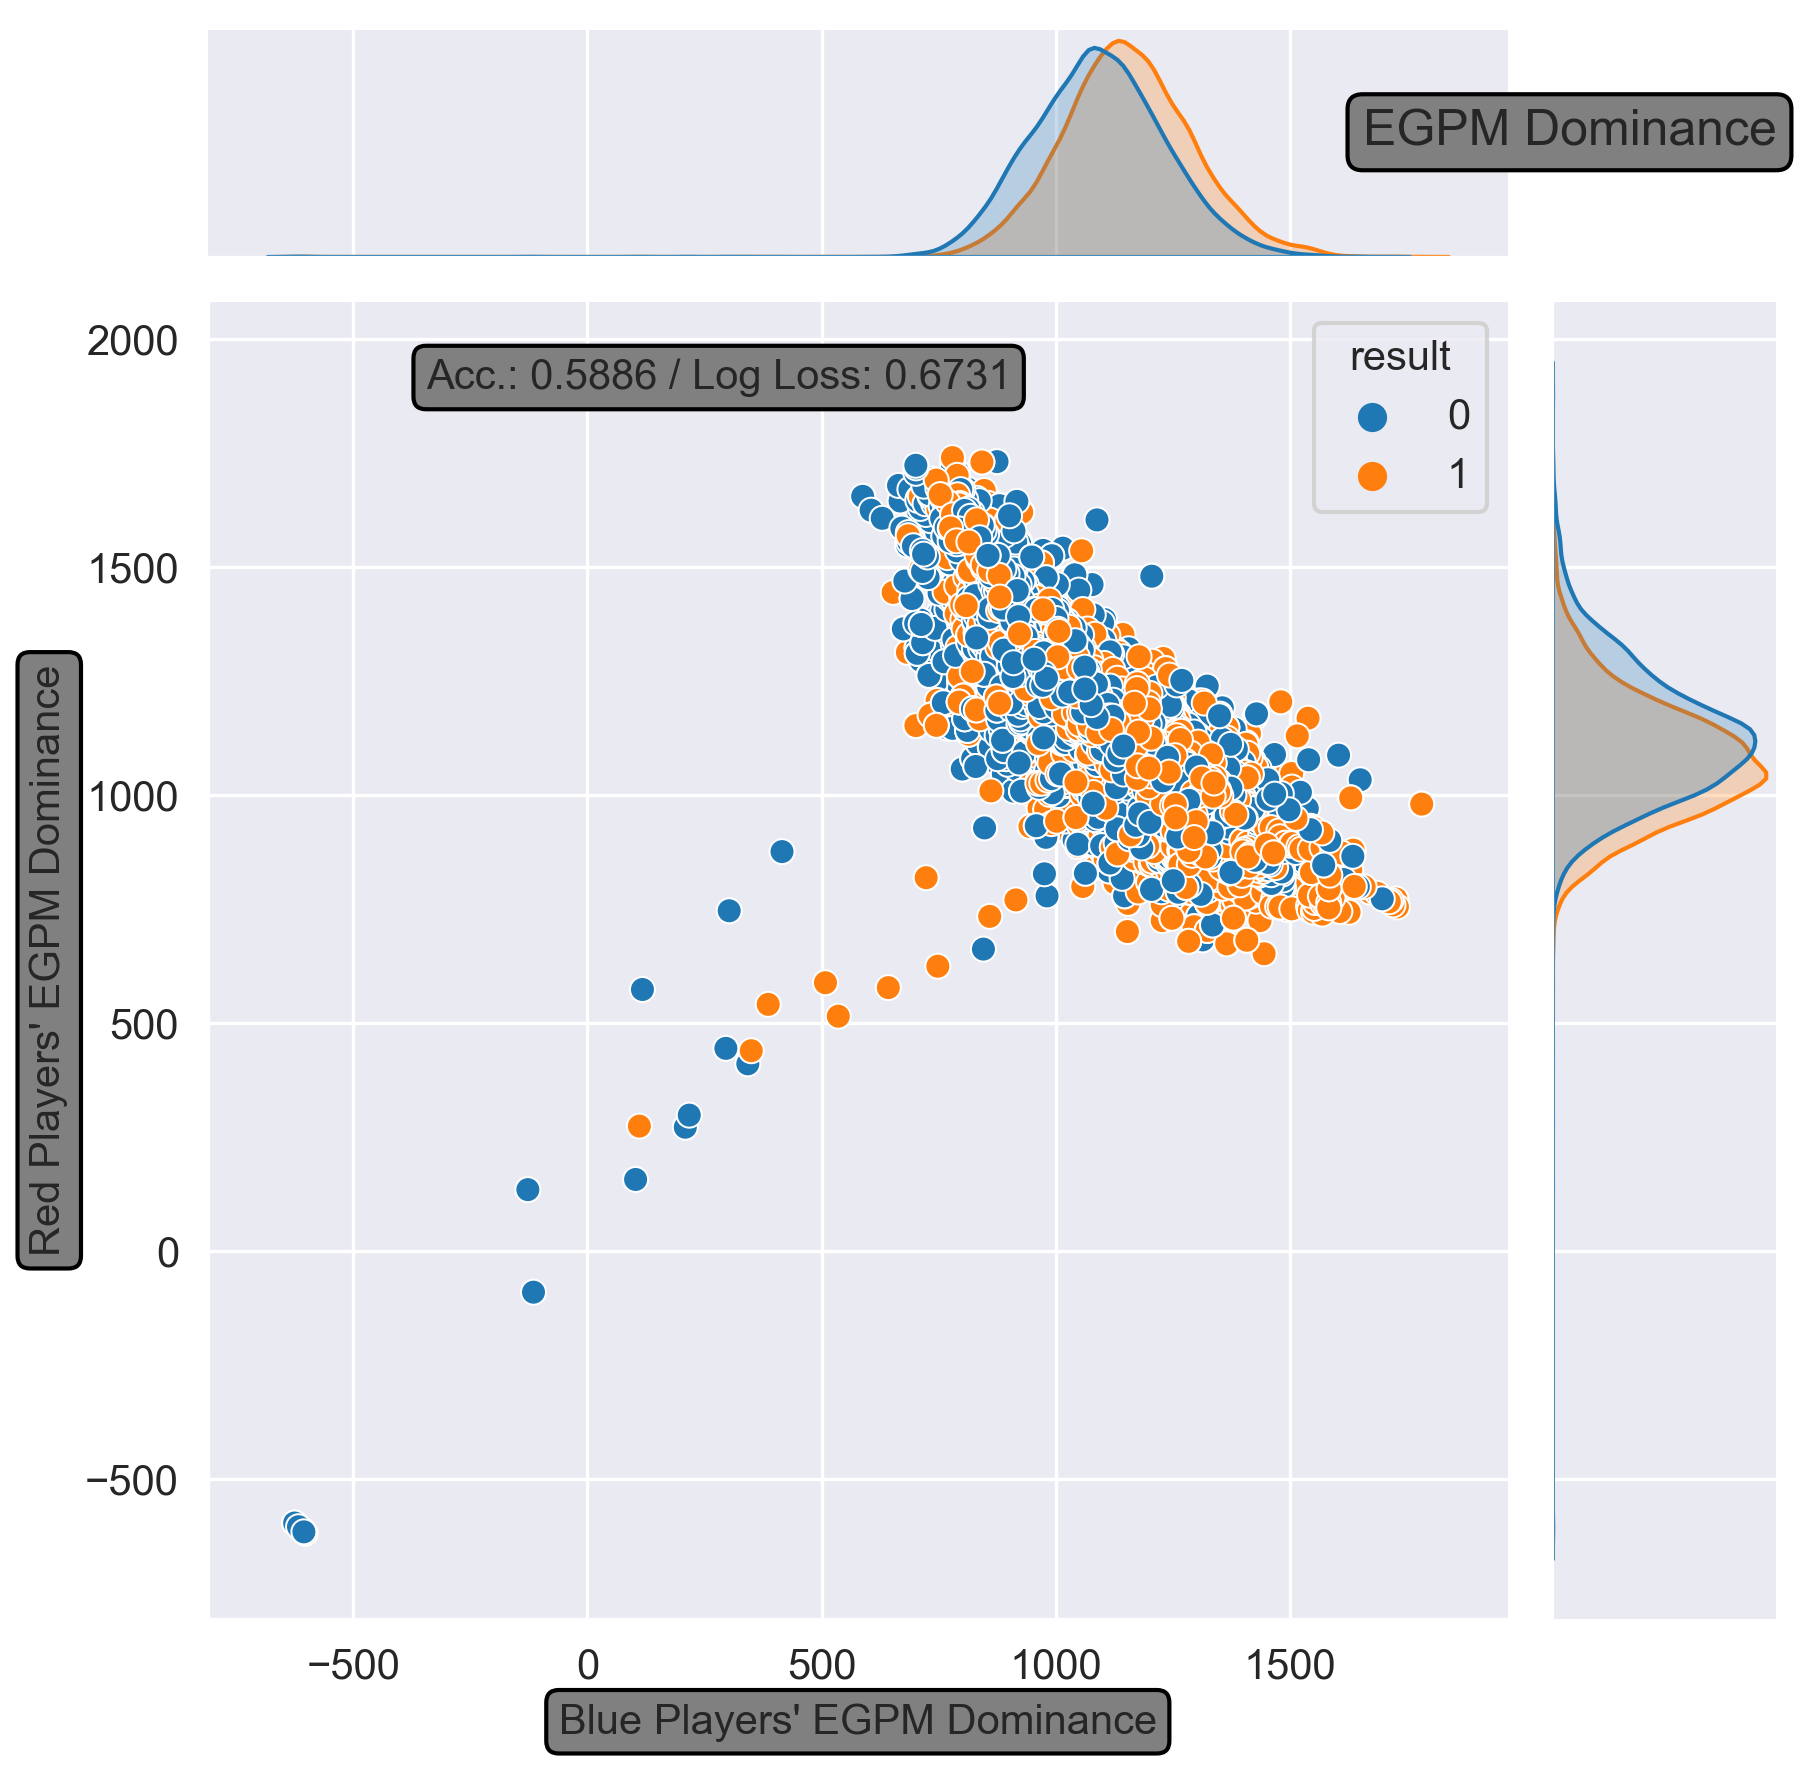
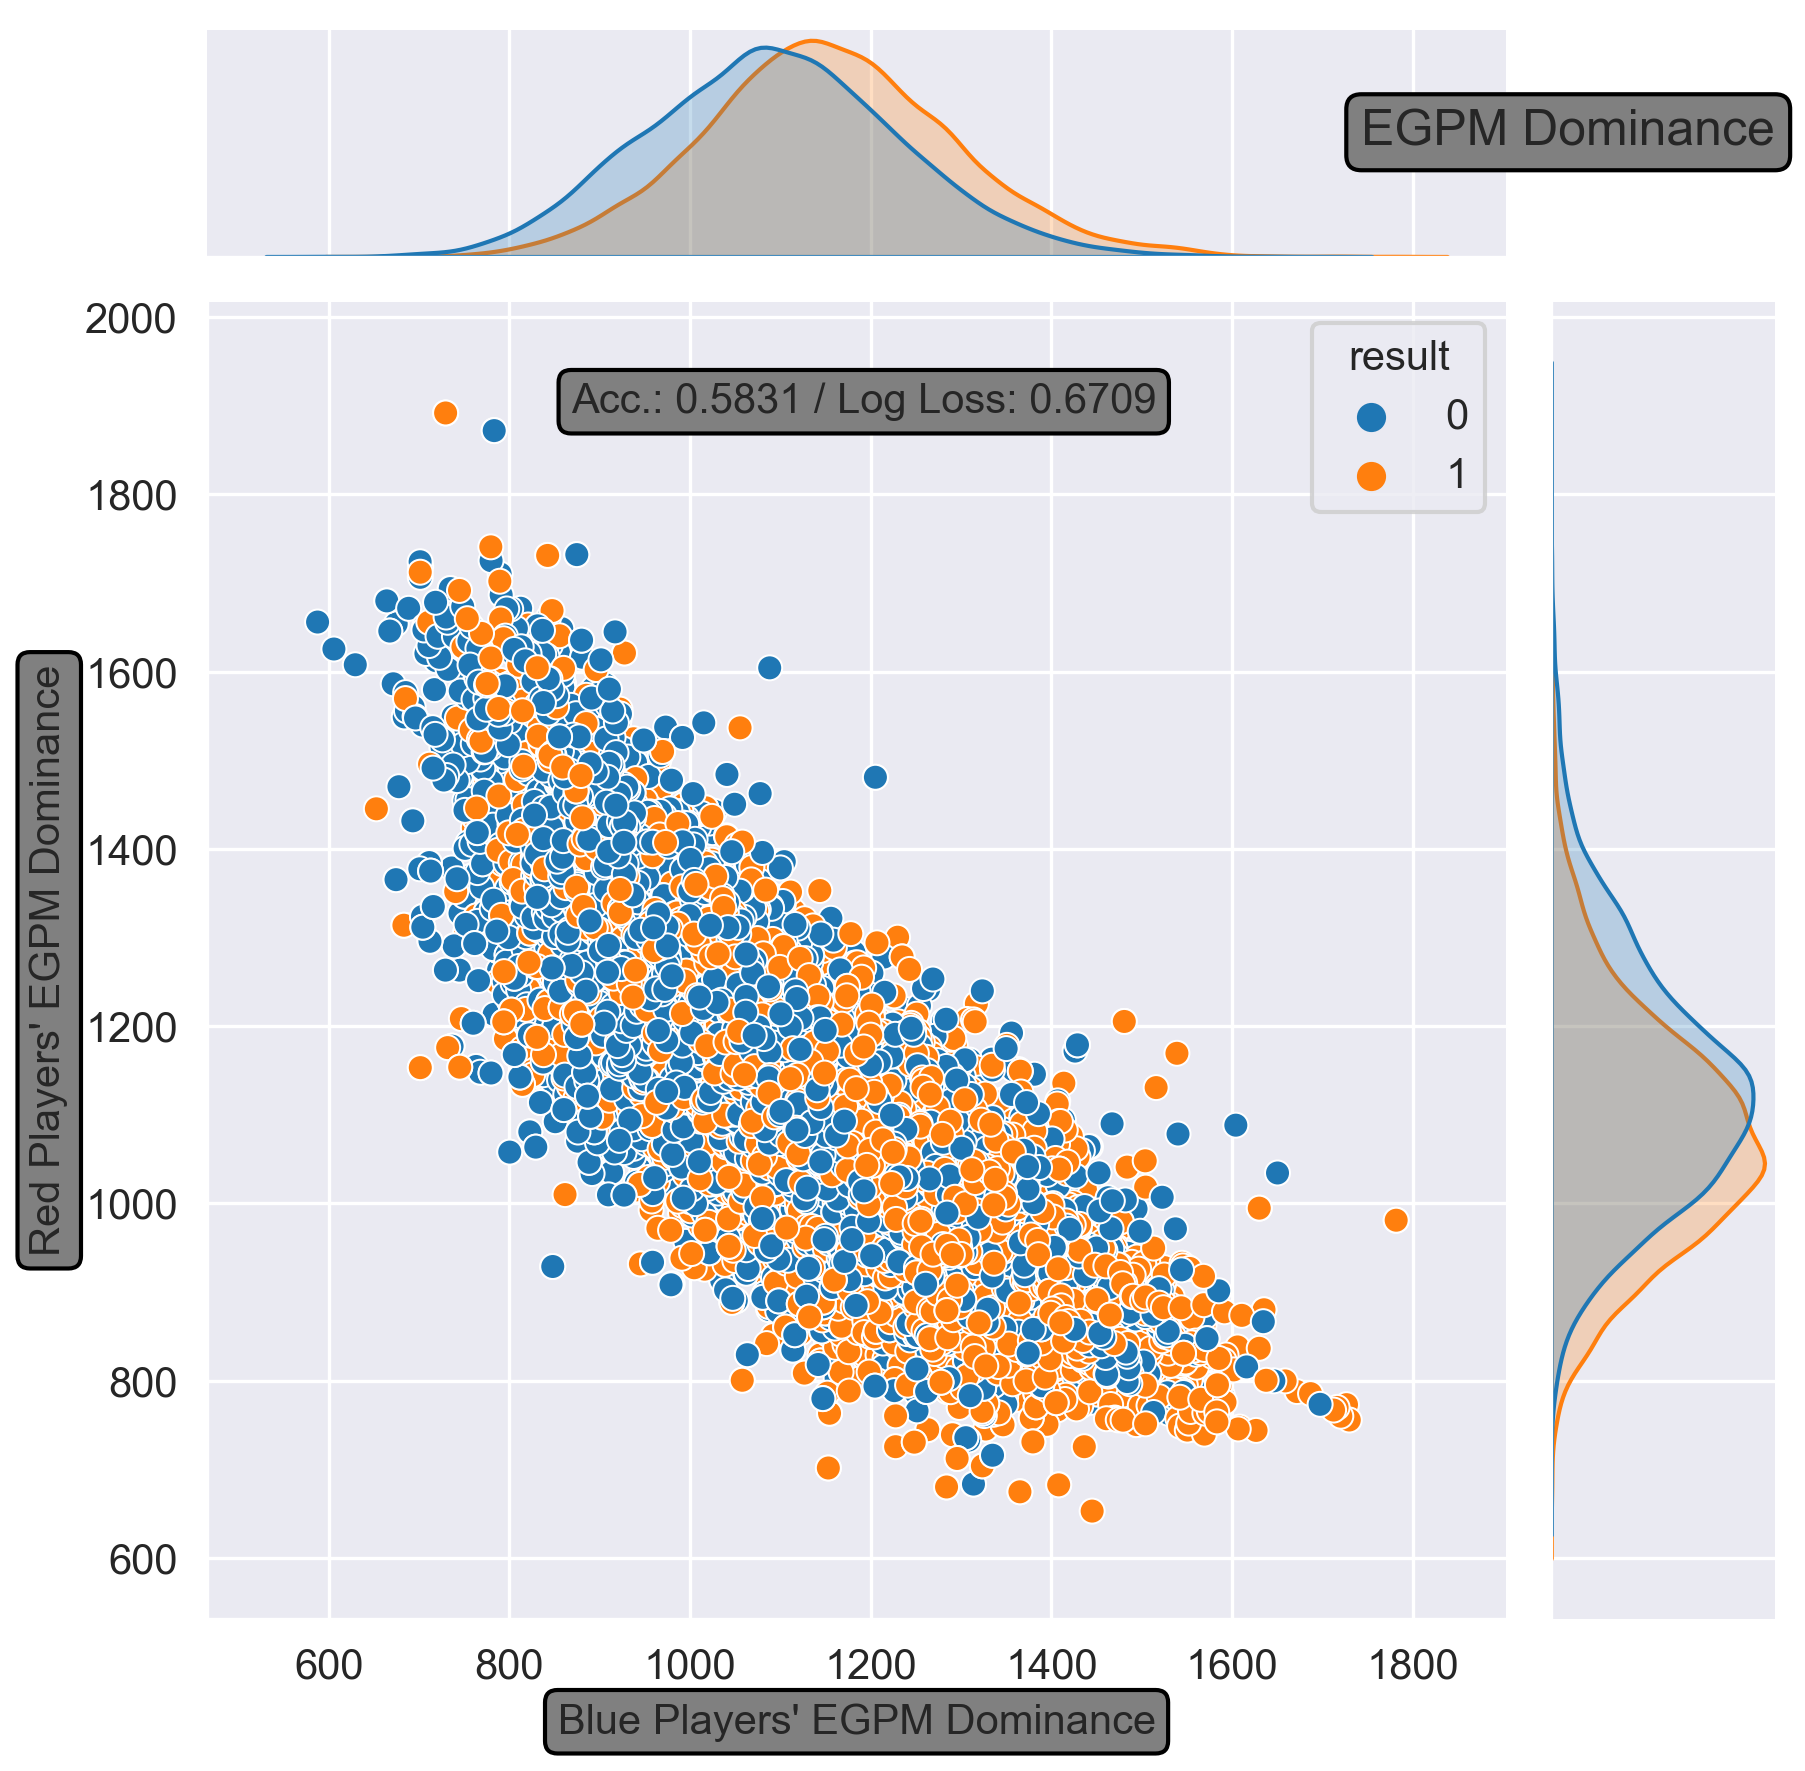
Model Tuning / Type Hinting Changes
Employed a scaling approach to the EGPM model to make the output predictions have a lower log loss value. Minor code changes to improve type hinting and readability.

diff --git a/src/lol_modeling.py b/src/lol_modeling.py
@@ -18,30 +18,29 @@ Nothing in this code or its outputs constitutes financial advice.
 This code is intended to be imported into your analytics projects.
 """
 # Housekeeping
-import csv
 import itertools
 import math
 import numpy as np
+from pandas import DataFrame
 import src.oracles_elixir as oe
 import pandas as pd
-from scipy.stats import norm
 import trueskill
-from typing import Optional
+from typing import Optional, Tuple, Dict, Any
 
 
 # Function Library
-def std(x: int) -> int:
+def std(x: int) -> np.ndarray:
     """
     Calculate the standard deviation of X using Numpy."""
     return np.std(x)
 
 
-def q10(x: pd.Series) -> pd.Series:
+def q10(x: pd.Series) -> np.ndarray:
     """Calculate the 10th percentile of a Numpy series."""
     return np.percentile(x, q=10)
 
 
-def q90(x: pd.Series) -> pd.Series:
+def q90(x: pd.Series) -> np.ndarray:
     """Calculate the 90th percentile of a Numpy series."""
     return np.percentile(x, q=90)
 
@@ -75,10 +74,10 @@ def elo_calculator(df: pd.DataFrame, entity: str,
     elo_loser_before = []
 
     # Function Definitions
-    def get_elo(team: str) -> dict:
+    def get_elo(team: str) -> float:
         return elo_results.get(team, start_elo)
 
-    def expected_result(elo_a: int, elo_b: int) -> int:
+    def expected_result(elo_a: float, elo_b: float) -> float:
         expect_a = 1.0 / (1 + 10 ** ((elo_b - elo_a) / 400))
         return expect_a
 
@@ -246,7 +245,6 @@ def player_elo(df: pd.DataFrame, start: int = 1200, k: int = 28) -> pd.DataFrame
 
     return df
 
-
 def aggregate_player_elos(player_data: pd.DataFrame, team_data: pd.DataFrame) -> pd.DataFrame:
     """
     Aggregate individual player elos to a mean elo per team per match.
@@ -280,7 +278,8 @@ def aggregate_player_elos(player_data: pd.DataFrame, team_data: pd.DataFrame) ->
     return team_data
 
 
-def trueskill_model(player_data: pd.DataFrame, team_data: pd.DataFrame) -> pd.DataFrame:
+def trueskill_model(player_data: pd.DataFrame, team_data: pd.DataFrame) -> Tuple[
+    Optional[DataFrame], Optional[DataFrame], Dict[Any, Any]]:
     r"""
     Calculate team ranking using Microsoft's TrueSkill 1 algorithm.
     Reference: https://www.microsoft.com/en-us/research/project/trueskill-ranking-system/
@@ -367,18 +366,18 @@ def trueskill_model(player_data: pd.DataFrame, team_data: pd.DataFrame) -> pd.Da
 
         return output_array
 
-    colnames = ['gameid', 'date', 'league', 'ckpm', 'blue_earned_gpm',
+    col_names = ['gameid', 'date', 'league', 'ckpm', 'blue_earned_gpm',
                 'blue_kpm', 'blue_team', 'blue_team_id', 'blue_top_name', 'blue_jng_name',
                 'blue_mid_name', 'blue_bot_name', 'blue_sup_name',
                 'blue_team_result', 'red_team', 'red_team_id', 'red_earned_gpm', 'red_kpm',
                 'red_top_name', 'red_jng_name', 'red_mid_name',
                 'red_bot_name', 'red_sup_name']
 
-    lcs_rating = pd.DataFrame(setup_match(input_data), columns=colnames)
+    lcs_rating = pd.DataFrame(setup_match(input_data), columns=col_names)
 
     analyzed_gameids = {}
 
-    def win_probability(team1: str, team2: str, trueskill_global_env):
+    def win_probability(team1: dict, team2: dict, trueskill_global_env) -> float:
         """
         Compute the TrueSkill probability of a team to win based on mu and sigma values.
         """
@@ -722,7 +721,15 @@ def egpm_model(data: pd.DataFrame, entity: str) -> pd.DataFrame:
     data['egpm_dominance_win_perc'] = (data['egpm_dominance_ema_before'] /
                                        (data['egpm_dominance_ema_before'] +
                                         data['opp_egpm_dominance_ema_before']))
+    data['egpm_dominance_win_perc'] = data['egpm_dominance_win_perc'].fillna(0.5)
     data['egpm_dominance_diff'] = data['egpm_dominance_ema_before'] - data['opp_egpm_dominance_ema_before']
+
+    # Scale Win Perc (derived from sklearn MinMaxScaler)
+    min_tune = 0.125
+    max_tune = 0.875
+    base = data['egpm_dominance_win_perc']
+    base_std = (base - base.min(axis=0)) / (base.max(axis=0) - base.min(axis=0))
+    data['scaled_egpm_win_perc'] = base_std * (max_tune - min_tune) + min_tune
 
     return data
 

diff --git a/src/match_predictor.py b/src/match_predictor.py
@@ -38,6 +38,15 @@ def predict_match(blue: Team, red: Team) -> pd.DataFrame:
 
     weights = generate_validation_metrics(graph=False)
 
+    def scale_egpm(win_perc: float) -> float:
+        min_tune = 0.125
+        max_tune = 0.875
+        team_min = 0.261964
+        team_max = 0.695982
+        base_std = (win_perc - team_min) / (team_max - team_min)
+        scaled_win_perc = base_std * (max_tune - min_tune) + min_tune
+        return scaled_win_perc
+
     match = pd.DataFrame({"blue": [blue.name],
                           "red": [red.name],
                           "player_elo": [elo_prediction(blue.player_elo, red.player_elo)],
@@ -45,7 +54,7 @@ def predict_match(blue: Team, red: Team) -> pd.DataFrame:
                                                                     blue.player_trueskill_sigma,
                                                                     red.player_trueskill_mu,
                                                                     red.player_trueskill_sigma)],
-                          "egpm_dom": [standard_prediction(blue.egpm_dominance, red.egpm_dominance)],
+                          "egpm_dom": [scale_egpm(standard_prediction(blue.egpm_dominance, red.egpm_dominance))],
                           "side_win": [standard_prediction(blue.side_win_rate, red.side_win_rate)]})
 
     if blue.team_exists and red.team_exists:
@@ -259,13 +268,9 @@ def mock_draft(blue1: str, blue2: str, blue3: str, blue4: str, blue5: str,
 
 if __name__ in ('__main__', '__builtin__', 'builtins'):
     blue_team = Team("Team BDS", "Blue", "Adam", "Cinkrof", "NUCLEARINT", "xMatty", "Limit")
-    print(blue_team.player_trueskill_mu)
-    print(blue_team.player_trueskill_sigma)
     red_team = Team("Rogue", "Red", "Odoamne", "Malrang", "Larssen", "Comp", "Trymbi")
-    print(red_team.player_trueskill_mu)
-    print(red_team.player_trueskill_sigma)
+
     print(predict_draft("Team BDS", "Adam", "Cinkrof", "NUCLEARINT", "xMatty", "LIMIT",
                         "Rogue", "Odoamne", "Malrang", "Larssen", "Comp", "Trymbi"))
-
     print(predict_draft("Rogue", "Odoamne", "Malrang", "Larssen", "Comp", "Trymbi",
                         "Team BDS", "Adam", "Cinkrof", "NUCLEARINT", "xMatty", "LIMIT"))

diff --git a/src/model_validator.py b/src/model_validator.py
@@ -218,13 +218,12 @@ def validate_egpm_dominance(teams: pd.DataFrame, directory: Path, graph: bool):
         Variable describing the log loss, as defined by sklearn.metrics, of the model.
     """
     # Data Preparation
-    teams['egpm_dominance_win_perc'] = teams['egpm_dominance_win_perc'].fillna(0.5)
-    teams['egpm_dominance_expected_result'] = np.where(teams['egpm_dominance_win_perc'] >= 0.5, 1, 0)
+    teams['egpm_dominance_expected_result'] = np.where(teams['scaled_egpm_win_perc'] >= 0.5, 1, 0)
     teams['result'] = teams.result.astype('int32')
 
     # Label Accuracy and Log Loss
     correct = len(teams[teams['egpm_dominance_expected_result'] == teams['result']]) / len(teams)
-    logloss = log_loss(teams['result'], teams['egpm_dominance_win_perc'], labels=[0, 1])
+    logloss = log_loss(teams['result'], teams['scaled_egpm_win_perc'], labels=[0, 1])
 
     # Generate Graph
     if graph:
@@ -350,10 +349,11 @@ def validate_ensemble_accuracy(teams: pd.DataFrame,
     """
     # Data Preparation
     teams['result'] = teams.result.astype('int32')
-    sum_accuracy = team_accuracy + player_accuracy + egpm_dom_accuracy + side_ema_accuracy  # + trueskill_accuracy
+    sum_accuracy = team_accuracy + player_accuracy + egpm_dom_accuracy + side_ema_accuracy + trueskill_accuracy
     teams['ensemble_win_perc'] = ((teams['team_elo_win_perc'] * (team_accuracy / sum_accuracy)) +
                                   (teams['player_elo_win_perc'] * (player_accuracy / sum_accuracy)) +
-                                  (teams['egpm_dominance_win_perc'] * (egpm_dom_accuracy / sum_accuracy)) +
+                                  (teams['trueskill_win_perc'] * (trueskill_accuracy / sum_accuracy)) +
+                                  (teams['scaled_egpm_win_perc'] * (egpm_dom_accuracy / sum_accuracy)) +
                                   (teams['side_ema_win_perc'] * (side_ema_accuracy / sum_accuracy)))
     teams['opp_ensemble_win_perc'] = 1 - teams['ensemble_win_perc']
     teams['ensemble_expected_result'] = np.where(teams['ensemble_win_perc'] >= 0.5, 1, 0)
@@ -447,3 +447,4 @@ def main():
 
 if __name__ in ('__main__', '__builtin__', 'builtins'):
     main()
+    print("Validation complete.")

diff --git a/src/data_generator.py b/src/data_generator.py
@@ -16,8 +16,6 @@ import datetime as dt
 from pathlib import Path
 import pandas as pd
 from typing import Tuple
-from sklearn.calibration import CalibratedClassifierCV
-from sklearn.naive_bayes import GaussianNB
 import src.lol_modeling as lol
 import src.oracles_elixir as oe
 
